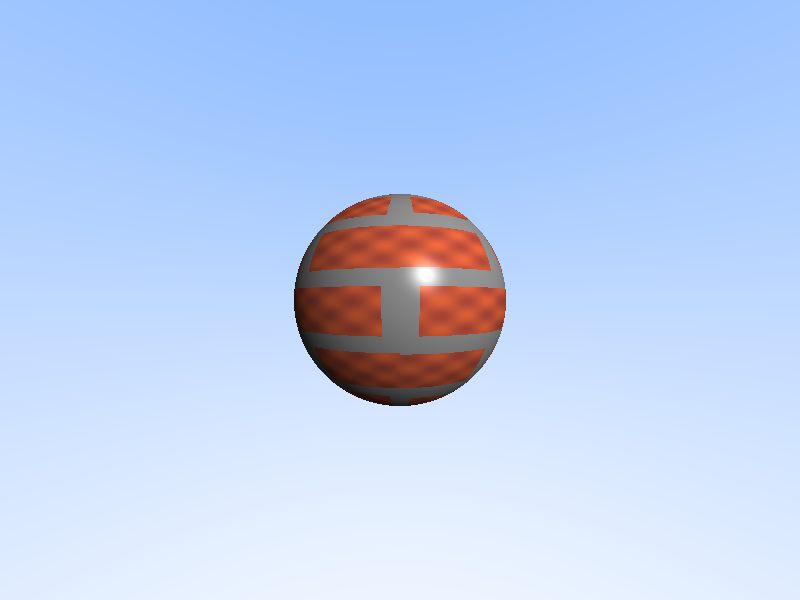
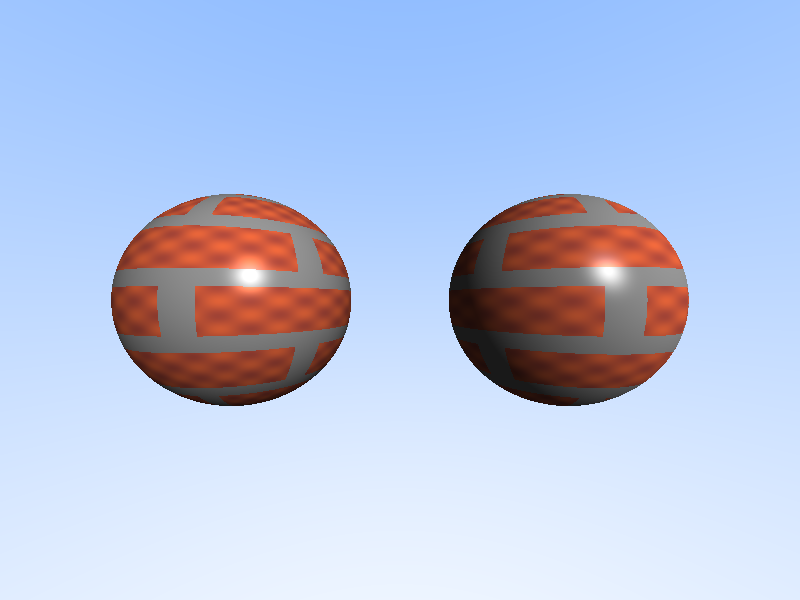
Fix: 改为两个独立球体对比（左普通/右视差）

Changed region(s): [[0.125, 0.3, 0.875, 0.69]]

diff --git a/2026/02/02-24-Parallax-Mapping/parallax_mapping.cpp b/2026/02/02-24-Parallax-Mapping/parallax_mapping.cpp
@@ -196,21 +196,6 @@ Vec3 parallax_mapping(const Vec3& point, const Sphere& sphere, const Vec3& view_
     return color;
 }
 
-// 光线追踪主函数
-Vec3 trace(const Ray& ray, const Sphere& sphere, const Vec3& light_dir, bool use_parallax) {
-    double t;
-    if (!sphere.intersect(ray, t)) {
-        // 背景色（渐变）
-        double gradient = 0.5 * (ray.direction.y + 1.0);
-        return Vec3(0.5, 0.7, 1.0) * gradient + Vec3(1.0, 1.0, 1.0) * (1.0 - gradient);
-    }
-    
-    Vec3 hit_point = ray.at(t);
-    Vec3 view_dir = (ray.origin - hit_point).normalize();
-    
-    return parallax_mapping(hit_point, sphere, view_dir, light_dir, use_parallax);
-}
-
 // 保存为PPM图像
 void save_ppm(const std::string& filename, const std::vector<Vec3>& pixels, int width, int height) {
     std::ofstream file(filename);
@@ -231,11 +216,11 @@ void save_ppm(const std::string& filename, const std::vector<Vec3>& pixels, int 
 int main() {
     std::cout << "开始渲染 Parallax Mapping 效果对比..." << std::endl;
     
-    // 场景设置
-    Sphere sphere(Vec3(0, 0, -3), 1.0);
+    // 场景设置：两个球体并排
+    Sphere sphere_left(Vec3(-1.5, 0, -3), 1.0);   // 左球：普通纹理
+    Sphere sphere_right(Vec3(1.5, 0, -3), 1.0);   // 右球：视差贴图
     Vec3 light_dir = Vec3(0.5, 0.5, 1.0).normalize();
     
-    // 渲染两张图：左边不使用视差贴图，右边使用视差贴图
     std::vector<Vec3> pixels(WIDTH * HEIGHT);
     
     for (int j = 0; j < HEIGHT; j++) {
@@ -256,11 +241,28 @@ int main() {
             Vec3 ray_dir = Vec3(x, y, -1.0).normalize();
             Ray ray(Vec3(0, 0, 0), ray_dir);
             
-            // 左半边：不使用视差贴图
-            // 右半边：使用视差贴图
-            bool use_parallax = (i >= WIDTH / 2);
+            // 检查两个球体的交点，选择最近的
+            double t_left, t_right;
+            bool hit_left = sphere_left.intersect(ray, t_left);
+            bool hit_right = sphere_right.intersect(ray, t_right);
             
-            Vec3 color = trace(ray, sphere, light_dir, use_parallax);
+            Vec3 color;
+            if (hit_left && (!hit_right || t_left < t_right)) {
+                // 左球：不使用视差贴图
+                Vec3 hit_point = ray.at(t_left);
+                Vec3 view_dir = (ray.origin - hit_point).normalize();
+                color = parallax_mapping(hit_point, sphere_left, view_dir, light_dir, false);
+            } else if (hit_right) {
+                // 右球：使用视差贴图
+                Vec3 hit_point = ray.at(t_right);
+                Vec3 view_dir = (ray.origin - hit_point).normalize();
+                color = parallax_mapping(hit_point, sphere_right, view_dir, light_dir, true);
+            } else {
+                // 背景色（渐变）
+                double gradient = 0.5 * (ray_dir.y + 1.0);
+                color = Vec3(0.5, 0.7, 1.0) * gradient + Vec3(1.0, 1.0, 1.0) * (1.0 - gradient);
+            }
+            
             pixels[j * WIDTH + i] = color;
         }
     }
